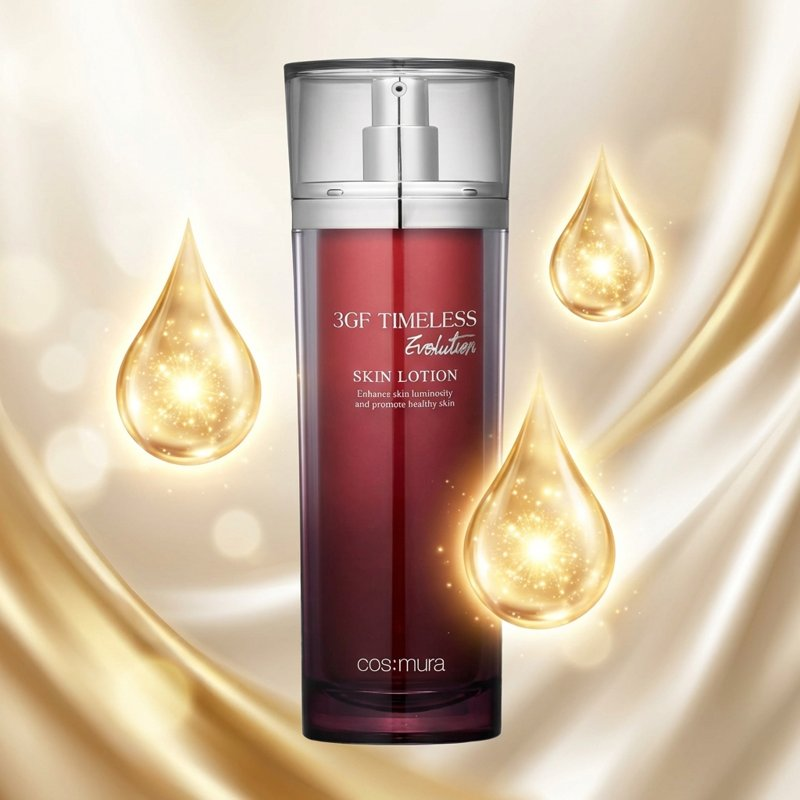
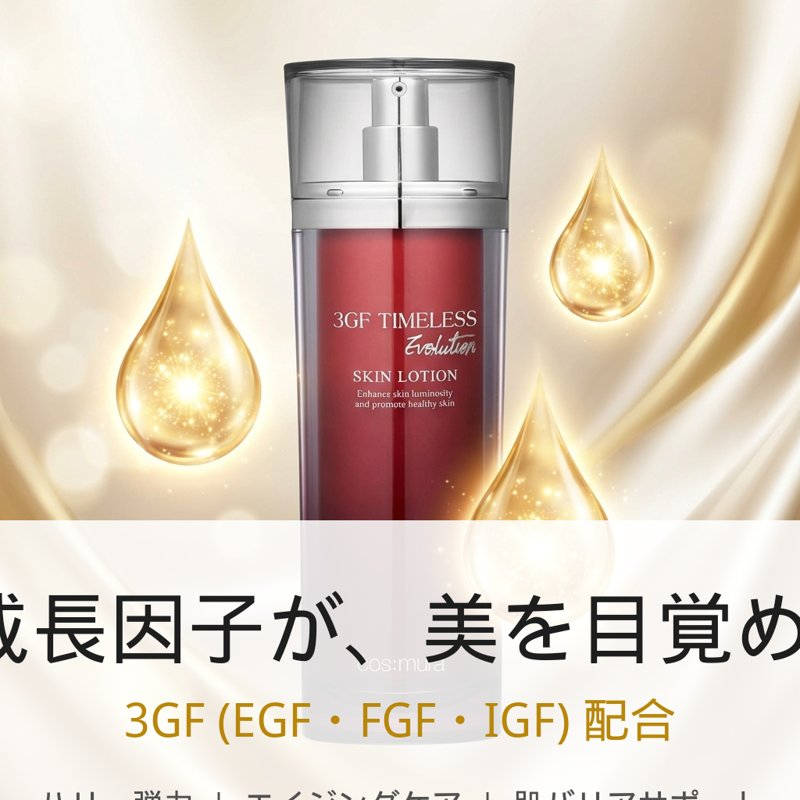
Add Japanese text overlays to creatives

diff --git a/creatives/B099DLV8QN/add_text_overlays.py b/creatives/B099DLV8QN/add_text_overlays.py
@@ -1,0 +1,117 @@
+import json
+import os
+from PIL import Image, ImageDraw, ImageFont
+
+# Config
+ASIN = "B099DLV8QN"
+BASE_DIR = f"creatives/{ASIN}"
+IMG_DIR = os.path.join(BASE_DIR, "images")
+JSON_PATH = os.path.join(BASE_DIR, "03_jp_copy.json")
+# Fallback font that supports CJK
+FONT_PATH = "/usr/share/fonts/truetype/wqy/wqy-microhei.ttc" 
+
+def add_text_to_image(img_path, copy_data):
+    try:
+        img = Image.open(img_path).convert("RGBA")
+    except Exception as e:
+        print(f"Failed to open {img_path}: {e}")
+        return
+
+    width, height = img.size
+    overlay = Image.new("RGBA", img.size, (0, 0, 0, 0))
+    draw = ImageDraw.Draw(overlay)
+
+    headline = copy_data.get("headline", "")
+    subcopy = copy_data.get("subcopy", "")
+    labels = copy_data.get("labels", [])
+
+    # Skip if no text (e.g. Main Image)
+    if not headline and not subcopy:
+        print(f"Skipping text for {img_path} (No text defined)")
+        return
+
+    try:
+        font_h = ImageFont.truetype(FONT_PATH, 100) # Headline
+        font_s = ImageFont.truetype(FONT_PATH, 60)  # Subcopy
+        font_l = ImageFont.truetype(FONT_PATH, 40)  # Labels
+    except:
+        # Fallback if specific font not found (though wqy is standard in this env)
+        font_h = ImageFont.load_default()
+        font_s = ImageFont.load_default()
+        font_l = ImageFont.load_default()
+
+    # Define Text Box Area (Bottom 30% of image)
+    # Style: Premium gradient fade or semi-transparent white box
+    box_height = int(height * 0.35)
+    box_top = height - box_height
+    
+    # Draw semi-transparent background for text (White with 85% opacity)
+    draw.rectangle([(0, box_top), (width, height)], fill=(255, 255, 255, 220))
+
+    # Text Color: Dark Grey / Black
+    text_color = (30, 30, 30, 255)
+    accent_color = (184, 134, 11, 255) # Dark Goldenrod for subcopy/accent
+
+    current_y = box_top + 80
+
+    # Draw Headline
+    if headline:
+        # Centered text
+        # getbbox returns (left, top, right, bottom)
+        bbox = draw.textbbox((0, 0), headline, font=font_h)
+        text_w = bbox[2] - bbox[0]
+        x = (width - text_w) / 2
+        draw.text((x, current_y), headline, font=font_h, fill=text_color)
+        current_y += 140
+
+    # Draw Subcopy
+    if subcopy:
+        bbox = draw.textbbox((0, 0), subcopy, font=font_s)
+        text_w = bbox[2] - bbox[0]
+        x = (width - text_w) / 2
+        draw.text((x, current_y), subcopy, font=font_s, fill=accent_color)
+        current_y += 120
+
+    # Draw Labels (Features) - horizontally if possible
+    if labels:
+        label_text = "  |  ".join(labels)
+        bbox = draw.textbbox((0, 0), label_text, font=font_l)
+        text_w = bbox[2] - bbox[0]
+        x = (width - text_w) / 2
+        draw.text((x, current_y), label_text, font=font_l, fill=(80, 80, 80, 255))
+
+    # Composite
+    out = Image.alpha_composite(img, overlay)
+    
+    # Save as RGB (remove alpha)
+    out = out.convert("RGB")
+    out.save(img_path)
+    print(f"Added text to: {img_path}")
+
+    # Update thumbnail
+    thumb_path = img_path.replace(f"{ASIN}_", f"thumb_{ASIN}_").replace(".png", ".jpg")
+    thumb = out.resize((800, 800))
+    thumb.save(thumb_path, "JPEG", quality=85)
+
+
+def main():
+    if not os.path.exists(JSON_PATH):
+        print("JSON copy file not found.")
+        return
+    
+    with open(JSON_PATH, 'r', encoding='utf-8') as f:
+        data = json.load(f)
+
+    for item in data['images']:
+        idx = item['image']
+        # File naming convention check
+        filename = f"{ASIN}_0{idx}_main.png" if idx == 1 else f"{ASIN}_0{idx}.png"
+        file_path = os.path.join(IMG_DIR, filename)
+        
+        if os.path.exists(file_path):
+            add_text_to_image(file_path, item)
+        else:
+            print(f"Image file not found: {file_path}")
+
+if __name__ == "__main__":
+    main()
